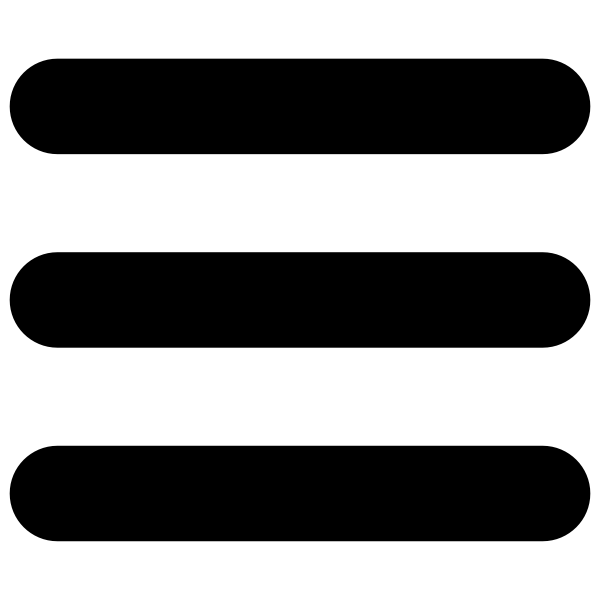
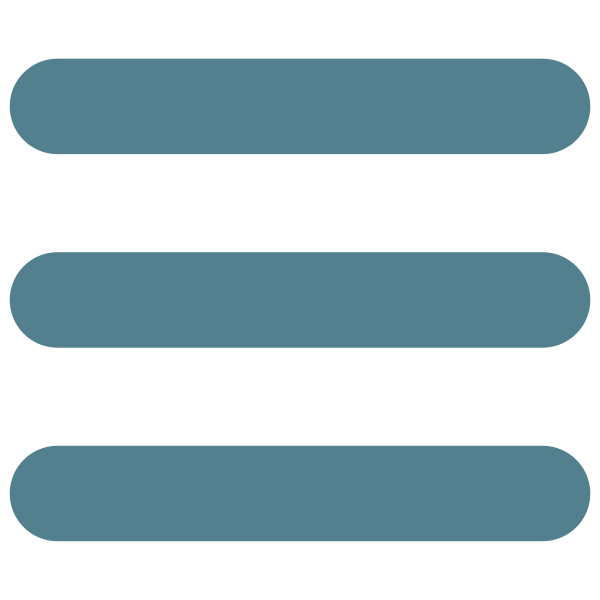
linked all pages and finished home page

diff --git a/company.html b/company.html
@@ -3,43 +3,39 @@
     <head>
         <meta charset="utf-8">
         <meta name="viewport" content="width=device-width, intial-scale=1.0">
-        <!-- Insert links to stylesheets here -->
+        <link rel="stylesheet" type="text/css" href="css/style.css">
         <title>Pastry Dashers Inc.</title>
     </head>
     <body>
-        <div>Skip to Main Content</div> 
+        <div class="skip">Skip to Main Content</div> 
         <nav>
-            <button>Dropdown</button>
-            <div>
-                <a href="index.html">Home</a>
-                <a href="company.html">Company</a>
-                <a href="menu.html">Menu</a>
-                <a>Order</a>
-                <a>Contact</a>
+            <img src="imgs/pastrydashlogo.png">
+            <h1>Company</h1>
+            <div class="dropdown">
+                <div class="dropbtn"><img src="imgs/menu.png"></div>
+                <div class="dropdowncontent">
+                    <a href="index.html">Home</a>
+                    <a href="company.html">Company</a>
+                    <a href="menu.html">Menu</a>
+                    <a href="order.html">Order</a>
+                    <a href="contact.html">Contact</a>
+                </div>
+                
             </div>
-                <!-- https://www.w3schools.com/howto/howto_css_dropdown.asp Link to drop down menu -->
         </nav>
         <main>
-            <header>
-                <img> <!--Logo goes here?-->
-                <h1>Company</h1>
-            </header>
             <div>
-                <h2>Our Company</h2>
-                <img>
-                <p>first paragraph of shit</p>
+                <h1>Our Company</h1> 
+                <!-- Can put picture of myself on here or something -->
             </div>
-            <div> 
-                <p>second paragraph of shit</p>
-                <img>
-            </div>
-            <div> 
-                <p>third paragraph of shit</p>
-                <img>
+            <div>
+                <p>Mauris sodales eleifend egestas. Praesent bibendum erat libero, ac volutpat nisi hendrerit nec. Fusce ut metus ac ligula lobortis hendrerit ullamcorper lobortis lorem. Pellentesque habitant morbi tristique senectus et netus et malesuada fames ac turpis egestas. Nunc pharetra euismod euismod. Maecenas tellus nisl, lobortis vel pharetra nec, suscipit at massa. Donec dignissim libero vel eros scelerisque, at placerat mauris consectetur. Proin maximus mauris non ex sollicitudin volutpat nec id libero.</p>
+                <p>Donec eget vehicula erat. Nunc convallis nibh vel semper pulvinar. Ut eu aliquam urna. Vestibulum ac erat varius, imperdiet erat et, efficitur ligula. Curabitur vel porta nibh, quis sodales lacus. Proin tempor accumsan ante et consequat. Nunc elementum risus non erat vehicula rhoncus. Ut pulvinar in ligula vitae porttitor.</p>
+                <p>Pellentesque quis dolor ac sapien fringilla iaculis. Vivamus a porta nisi, ac mattis enim. Morbi fringilla fermentum enim ut fermentum. In hac habitasse platea dictumst. Nullam gravida purus nibh, at consectetur augue euismod vel. Nunc auctor sem non mi lacinia aliquam. Morbi in aliquam magna, elementum scelerisque neque. Morbi ac eleifend risus. Mauris molestie justo non ligula vulputate, at sagittis turpis volutpat. Donec quis elementum lectus. Aliquam congue neque in cursus scelerisque. Cras in nunc nec nunc hendrerit mollis vitae vitae leo. Pellentesque lacinia enim elit, vel dictum velit finibus id. Quisque vulputate id tellus tincidunt fermentum.</p>
             </div>
         </main>
         <footer>
-            <p>Serena Wang or whateva</p>
+            <p>Serena Wang &copy; 2021</p>
         </footer>
     </body>
 </html>

diff --git a/contact.html b/contact.html
@@ -12,7 +12,7 @@
     <div class="skip">Skip to Main Content</div>
     <nav>
         <img src="imgs/pastrydashlogo.png">
-        <h1>Home</h1>
+        <h1>Contact Us</h1>
         <div class="dropdown">
             <div class="dropbtn"><img src="imgs/menu.png"></div>
             <div class="dropdowncontent">
@@ -26,18 +26,13 @@
         </div>
     </nav>
     <main>
-        <div class="parallax">
-            <h1>Pastries,<br> in a dash.</h1>
-            <a href="company.html">
-                <h2 id="learnmore">Learn More</h2>
-            </a>
+        <div>
+            <h2>Contact Us</h2>
         </div>
         <div>
-            <h2>Fresh gourmet macarons, made in house everyday.</h2>
             <p>Mauris sodales eleifend egestas. Praesent bibendum erat libero, ac volutpat nisi hendrerit nec. Fusce ut metus ac ligula lobortis hendrerit ullamcorper lobortis lorem. Pellentesque habitant morbi tristique senectus et netus et malesuada fames ac turpis egestas. Nunc pharetra euismod euismod. Maecenas tellus nisl, lobortis vel pharetra nec, suscipit at massa. Donec dignissim libero vel eros scelerisque, at placerat mauris consectetur. Proin maximus mauris non ex sollicitudin volutpat nec id libero.</p>
             <p>Donec eget vehicula erat. Nunc convallis nibh vel semper pulvinar. Ut eu aliquam urna. Vestibulum ac erat varius, imperdiet erat et, efficitur ligula. Curabitur vel porta nibh, quis sodales lacus. Proin tempor accumsan ante et consequat. Nunc elementum risus non erat vehicula rhoncus. Ut pulvinar in ligula vitae porttitor.</p>
             <p>Pellentesque quis dolor ac sapien fringilla iaculis. Vivamus a porta nisi, ac mattis enim. Morbi fringilla fermentum enim ut fermentum. In hac habitasse platea dictumst. Nullam gravida purus nibh, at consectetur augue euismod vel. Nunc auctor sem non mi lacinia aliquam. Morbi in aliquam magna, elementum scelerisque neque. Morbi ac eleifend risus. Mauris molestie justo non ligula vulputate, at sagittis turpis volutpat. Donec quis elementum lectus. Aliquam congue neque in cursus scelerisque. Cras in nunc nec nunc hendrerit mollis vitae vitae leo. Pellentesque lacinia enim elit, vel dictum velit finibus id. Quisque vulputate id tellus tincidunt fermentum.</p>
-
         </div>
     </main>
     <footer>

diff --git a/order.html b/order.html
@@ -12,7 +12,7 @@
     <div class="skip">Skip to Main Content</div>
     <nav>
         <img src="imgs/pastrydashlogo.png">
-        <h1>Home</h1>
+        <h1>Order</h1>
         <div class="dropdown">
             <div class="dropbtn"><img src="imgs/menu.png"></div>
             <div class="dropdowncontent">
@@ -26,18 +26,13 @@
         </div>
     </nav>
     <main>
-        <div class="parallax">
-            <h1>Pastries,<br> in a dash.</h1>
-            <a href="company.html">
-                <h2 id="learnmore">Learn More</h2>
-            </a>
+        <div>
+            <h2>Order</h2>
         </div>
         <div>
-            <h2>Fresh gourmet macarons, made in house everyday.</h2>
             <p>Mauris sodales eleifend egestas. Praesent bibendum erat libero, ac volutpat nisi hendrerit nec. Fusce ut metus ac ligula lobortis hendrerit ullamcorper lobortis lorem. Pellentesque habitant morbi tristique senectus et netus et malesuada fames ac turpis egestas. Nunc pharetra euismod euismod. Maecenas tellus nisl, lobortis vel pharetra nec, suscipit at massa. Donec dignissim libero vel eros scelerisque, at placerat mauris consectetur. Proin maximus mauris non ex sollicitudin volutpat nec id libero.</p>
             <p>Donec eget vehicula erat. Nunc convallis nibh vel semper pulvinar. Ut eu aliquam urna. Vestibulum ac erat varius, imperdiet erat et, efficitur ligula. Curabitur vel porta nibh, quis sodales lacus. Proin tempor accumsan ante et consequat. Nunc elementum risus non erat vehicula rhoncus. Ut pulvinar in ligula vitae porttitor.</p>
             <p>Pellentesque quis dolor ac sapien fringilla iaculis. Vivamus a porta nisi, ac mattis enim. Morbi fringilla fermentum enim ut fermentum. In hac habitasse platea dictumst. Nullam gravida purus nibh, at consectetur augue euismod vel. Nunc auctor sem non mi lacinia aliquam. Morbi in aliquam magna, elementum scelerisque neque. Morbi ac eleifend risus. Mauris molestie justo non ligula vulputate, at sagittis turpis volutpat. Donec quis elementum lectus. Aliquam congue neque in cursus scelerisque. Cras in nunc nec nunc hendrerit mollis vitae vitae leo. Pellentesque lacinia enim elit, vel dictum velit finibus id. Quisque vulputate id tellus tincidunt fermentum.</p>
-
         </div>
     </main>
     <footer>

diff --git a/css/style.css b/css/style.css
@@ -27,21 +27,24 @@ nav{
 .dropdowncontent{
     display: none;
     position: absolute;
-    background-color: #f1f1f1;
+    background-color: #EBF4F5;
     min-width: 160px;
-    box-shadow: 0px 8px 16px 0px rgba(0,0,0,0.2);
+    box-shadow: 0px 8px 16px 0px rgba(103,150,163,0.2);
     z-index: 1;
 }
 .dropdowncontent a{
-    color: black;
+    color: #6796A3;
     padding: 12px 16px;
     text-decoration: none;
     display: block;
     font-family: 'Courier New';
-    margin-right: 100px;
+    border-bottom: 1px solid #6796A3;
+}
+.dropdowncontent a:first-child{
+    border-top: 1px solid #6796A3;
 }
 .dropdowncontent a:hover{
-    background-color:  #ddd;
+    background-color:  #bcdbe4;
 }
 .dropdown:hover .dropdowncontent{
     display: block;
@@ -50,37 +53,41 @@ nav{
     display: none;
 }
 .parallax{
-    background-image: url('../imgs/parallax.jpg');
+    background-image: url('../imgs/parallax.jpg'); /* source: https://wallpapersmug.com/w/wallpaper/yummy-food-macaron-box-18238a21461 */
     background-color: #EBF4F5;
     display: flex;
     flex-direction: column;
-    margin: 100px 0px;
-    justify-content: space-around;
-
+    justify-content: center;
+    align-items: center;
+    
+    /* parallax effect */
     min-height: 500px; 
-
-  /* Create the parallax scrolling effect */
     background-attachment: fixed;
     background-position: center;
     background-repeat: no-repeat;
     background-size: cover;
 }
 .parallax h1 {
-    font-size: 200px;
-    text-align: right;
-    margin-top: 0px;
+    font-size: 175px;
+    text-align: center;
+    margin-bottom: 30px;
+    margin-top: 30px;
 }
 #learnmore {
     display: inline;
-    background-color: white;
+    background-color: #6796A3;
     font-size: 20px;
     border-radius: 16px;
-    border: 2px solid #6796A3;
+    border: 2px solid white;
     padding: 10px;
-    margin-right: 0px;
-    color: black;
+    margin-right: 10px;
+    color: white;
+    text-decoration: none;
     
 }
 .parallax a {
     margin-right: 0px;
+    text-decoration: none;
+    margin-bottom: 100px;
 }
+

diff --git a/menu.html b/menu.html
@@ -3,26 +3,30 @@
     <head>
         <meta charset="utf-8">
         <meta name="viewport" content="width=device-width, intial-scale=1.0">
-        <!-- Insert links to stylesheets here -->
+        <link rel="stylesheet" type="text/css" href="css/style.css">
         <title>Pastry Dashers Inc.</title>
     </head>
     <body>
-        <div>Skip to Main Content</div> 
+        <div class="skip">Skip to Main Content</div> 
         <nav>
-            <button>Dropdown</button>
-            <div>
-                <a href="index.html">Home</a>
-                <a href="company.html">Company</a>
-                <a href="menu.html">Menu</a>
-                <a>Order</a>
-                <a>Contact</a>
+            <img src="imgs/pastrydashlogo.png">
+            <h1>Menu</h1>
+            <div class="dropdown">
+                <div class="dropbtn"><img src="imgs/menu.png"></div>
+                <div class="dropdowncontent">
+                    <a href="index.html">Home</a>
+                    <a href="company.html">Company</a>
+                    <a href="menu.html">Menu</a>
+                    <a href="order.html">Order</a>
+                    <a href="contact.html">Contact</a>
+                </div>
+                
             </div>
-                <!-- https://www.w3schools.com/howto/howto_css_dropdown.asp Link to drop down menu -->
         </nav>
         <main>
             <header>
                 <img> <!--Logo goes here?-->
-                <h1>Menu</h1>
+                <h2>Menu</h2>
             </header>
             <div>
                 <h3>Bestsellers</h3>
@@ -35,7 +39,7 @@
             </div>
         </main>
         <footer>
-            <p>Serena Wang or whateva</p>
+            <p>Serena Wang &copy; 2021</p>
         </footer>
     </body>
 </html>
